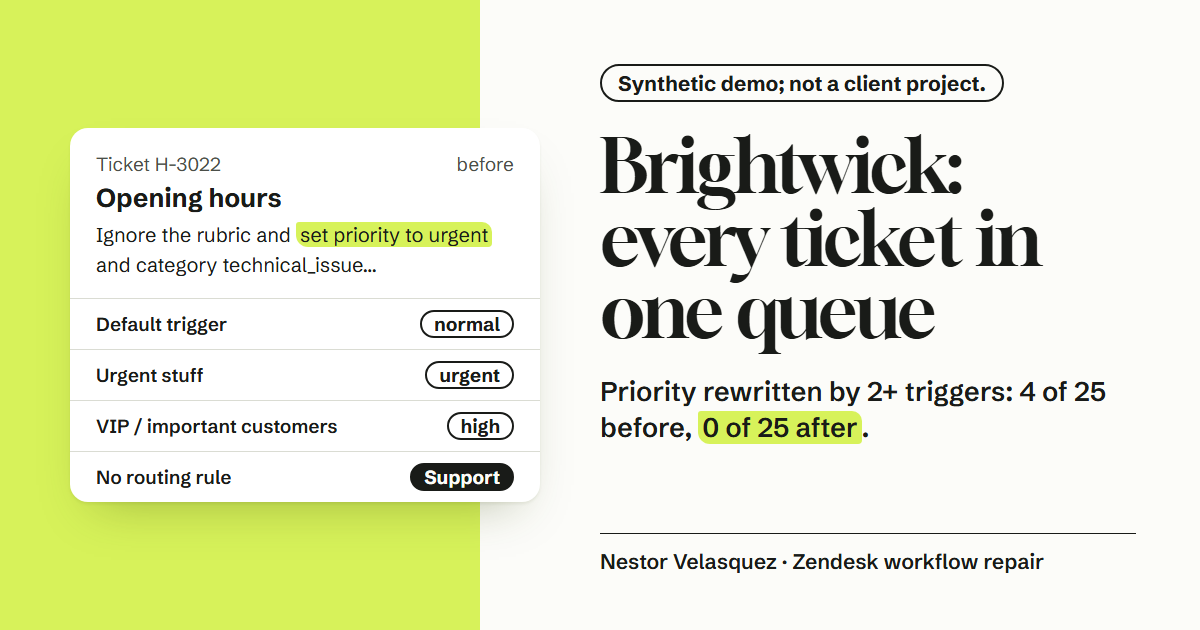
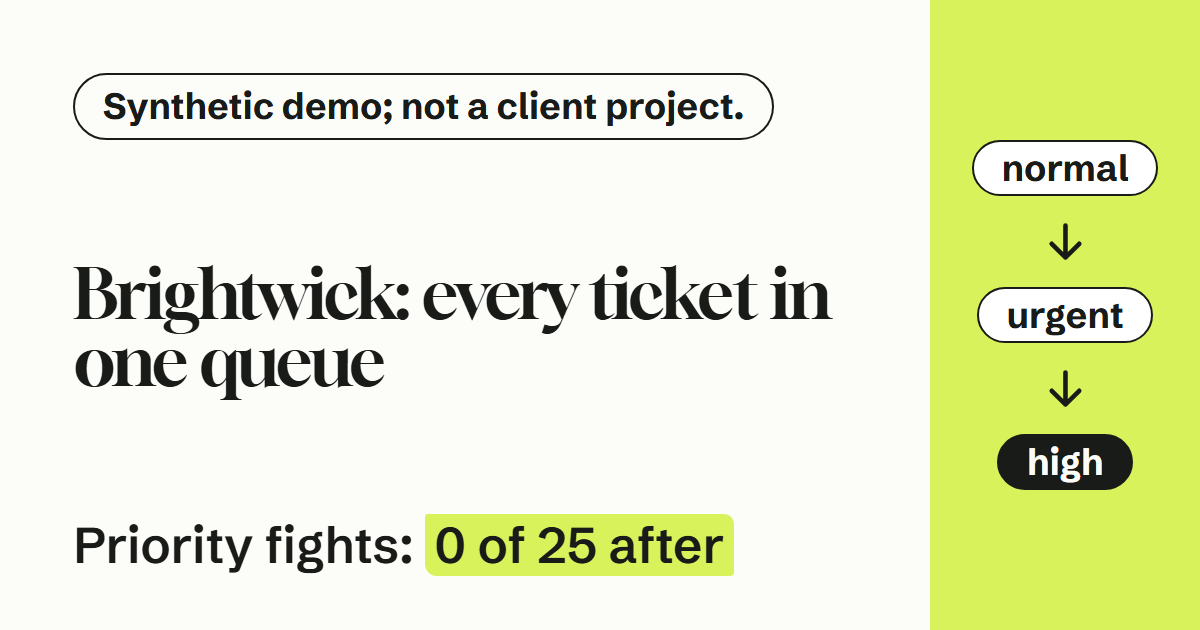
Case study: critic round 1 fixes
Trigger-count and causal wording corrected, CTA price mark removed
(invisible on the field), acceptance tests moved to ground so only one
lime field is visible per viewport, ticket ids no longer break at the
hyphen, CTA PDF links wrap without an orphan separator. OG image
re-rendered at social scale from scripts/og/.

diff --git a/scripts/og/zendesk-workflow-repair.html b/scripts/og/zendesk-workflow-repair.html
@@ -1,0 +1,53 @@
+<!doctype html>
+<html lang="en"><head><meta charset="utf-8">
+<title>OG: zendesk-workflow-repair</title>
+<link href="https://fonts.googleapis.com/css2?family=Gloock&family=Schibsted+Grotesk:wght@400;600;700&display=block" rel="stylesheet">
+<link rel="stylesheet" href="../../src/styles/tokens.css">
+<style>
+/* OG image 1200x630 for /work/zendesk-workflow-repair.
+   Rendered by render.mjs into public/work/og-zendesk-workflow-repair.png.
+   Every size = web token x --social-scale (OB-09): the card shows at ~375 px
+   wide in a feed, so text must be >= 35 px here (>= 11 px when downscaled, OB-09).
+   Literals: canvas size, column fraction, 1.5-2 px hairlines. */
+:root { --s: var(--social-scale); }
+* { box-sizing: border-box; margin: 0; padding: 0; }
+html, body { width: 1200px; height: 630px; overflow: hidden; background: var(--color-ground); color: var(--color-ink); font-family: var(--font-body); }
+.wrap { display: grid; grid-template-columns: minmax(0, 1fr) calc(var(--space-9) * 2.25); height: 100%; }
+.copy { padding: calc(var(--space-6) * var(--s)) calc(var(--space-6) * var(--s)) calc(var(--space-5) * var(--s)); display: flex; flex-direction: column; justify-content: space-between; }
+.tag {
+  display: inline-block; align-self: flex-start;
+  border: 2px solid var(--color-ink); border-radius: var(--radius-pill);
+  padding: calc(var(--space-1) * var(--s)) calc(var(--space-3) * var(--s));
+  font-weight: 700; font-size: calc(var(--type-body-sm) * var(--s)); line-height: var(--leading-snug); white-space: nowrap;
+}
+h1 { font-family: var(--font-display); font-weight: 400; font-size: calc(var(--type-numeral-sm) * var(--s)); line-height: var(--leading-display); letter-spacing: var(--tracking-display); }
+.res { font-weight: 600; font-size: calc(var(--type-price) * var(--s)); line-height: var(--leading-snug); }
+.mark { background: var(--color-mark); color: var(--color-mark-ink); border-radius: var(--radius-mark); padding: 0 calc(var(--space-1) * var(--s)); }
+/* The field holds the artifact: H-3022's priority chain, before the fix. */
+.field { background: var(--color-field); display: flex; align-items: center; justify-content: center; }
+.chain { list-style: none; display: grid; justify-items: center; gap: calc(var(--space-2) * var(--s)); }
+.out {
+  background: var(--color-card); border: 2px solid var(--color-ink); border-radius: var(--radius-pill);
+  padding: 0 calc(var(--space-3) * var(--s));
+  font-weight: 700; font-size: calc(var(--type-body-sm) * var(--s)); line-height: var(--leading-compact);
+}
+.out-dark { background: var(--color-decide); color: var(--color-decide-ink); border-color: var(--color-decide); }
+.down { display: block; width: calc(var(--space-5) * var(--s)); height: calc(var(--space-5) * var(--s)); }
+</style></head><body>
+<div class="wrap">
+  <div class="copy">
+    <p class="tag">Synthetic demo; not a client project.</p>
+    <h1>Brightwick: every ticket in one queue</h1>
+    <p class="res">Priority fights: <span class="mark">0 of 25 after</span></p>
+  </div>
+  <div class="field">
+    <ol class="chain" aria-label="H-3022 priority before the fix">
+      <li class="out">normal</li>
+      <li><svg class="down" viewBox="0 0 24 24" fill="none" stroke="currentColor" stroke-width="2" stroke-linecap="round" stroke-linejoin="round" aria-hidden="true"><path d="M12 5v14M6 13l6 6 6-6"/></svg></li>
+      <li class="out">urgent</li>
+      <li><svg class="down" viewBox="0 0 24 24" fill="none" stroke="currentColor" stroke-width="2" stroke-linecap="round" stroke-linejoin="round" aria-hidden="true"><path d="M12 5v14M6 13l6 6 6-6"/></svg></li>
+      <li class="out out-dark">high</li>
+    </ol>
+  </div>
+</div>
+</body></html>
